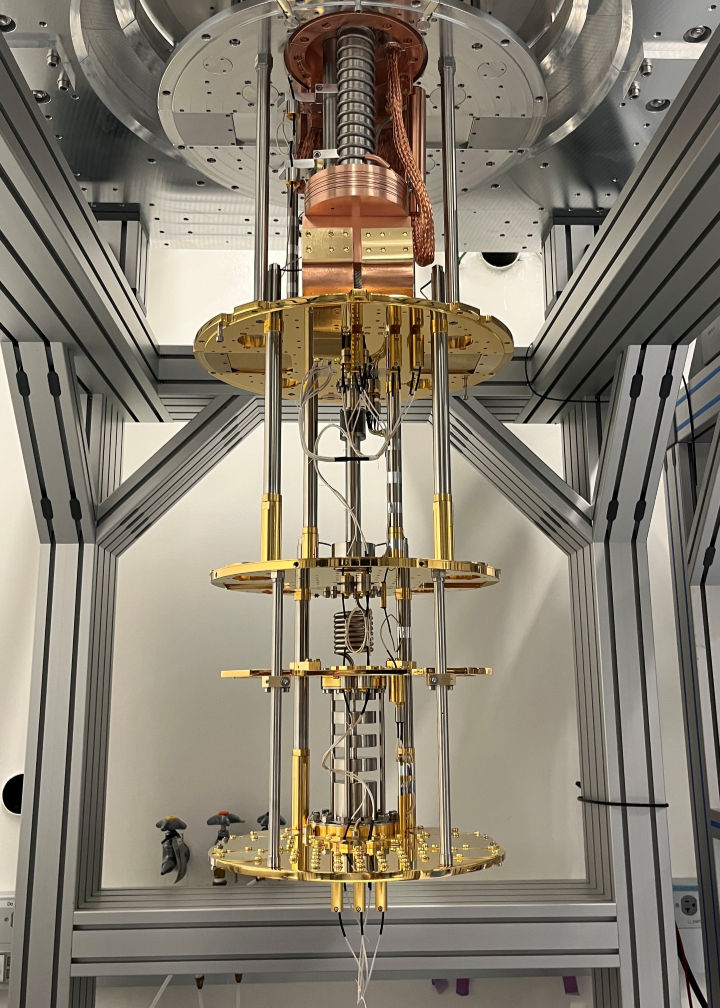
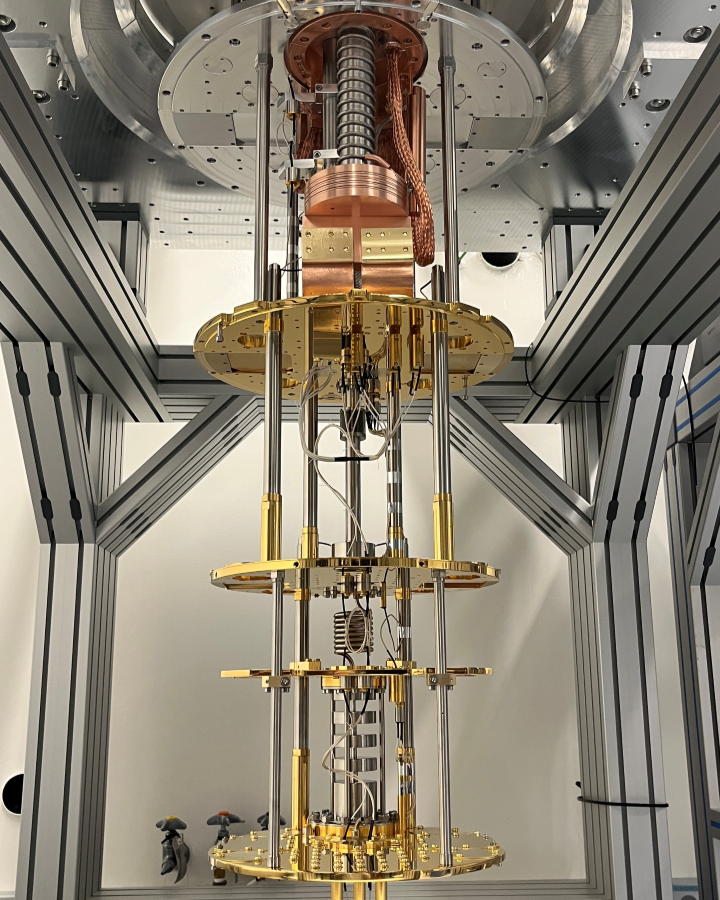
Started qfc page

diff --git a/_projects/QFC.md b/_projects/QFC.md
@@ -1,80 +1,10 @@
 ---
 layout: page
-title: Flip chip qubits project
+title: Flip chip qubits
 description: Measurements of superconducting qubits on galvanically separated flip-chip substrates.
-img: #assets/img/3.jpg
+img: assets/img/IMG_4585_SD.png
 importance: 2
 category: work
 ---
 
-Every project has a beautiful feature showcase page.
-It's easy to include images in a flexible 3-column grid format.
-Make your photos 1/3, 2/3, or full width.
-
-To give your project a background in the portfolio page, just add the img tag to the front matter like so:
-
-    ---
-    layout: page
-    title: project
-    description: a project with a background image
-    img: /assets/img/12.jpg
-    ---
-
-<div class="row">
-    <div class="col-sm mt-3 mt-md-0">
-        {% include figure.liquid loading="eager" path="assets/img/1.jpg" title="example image" class="img-fluid rounded z-depth-1" %}
-    </div>
-    <div class="col-sm mt-3 mt-md-0">
-        {% include figure.liquid loading="eager" path="assets/img/3.jpg" title="example image" class="img-fluid rounded z-depth-1" %}
-    </div>
-    <div class="col-sm mt-3 mt-md-0">
-        {% include figure.liquid loading="eager" path="assets/img/5.jpg" title="example image" class="img-fluid rounded z-depth-1" %}
-    </div>
-</div>
-<div class="caption">
-    Caption photos easily. On the left, a road goes through a tunnel. Middle, leaves artistically fall in a hipster photoshoot. Right, in another hipster photoshoot, a lumberjack grasps a handful of pine needles.
-</div>
-<div class="row">
-    <div class="col-sm mt-3 mt-md-0">
-        {% include figure.liquid loading="eager" path="assets/img/5.jpg" title="example image" class="img-fluid rounded z-depth-1" %}
-    </div>
-</div>
-<div class="caption">
-    This image can also have a caption. It's like magic.
-</div>
-
-You can also put regular text between your rows of images.
-Say you wanted to write a little bit about your project before you posted the rest of the images.
-You describe how you toiled, sweated, _bled_ for your project, and then... you reveal its glory in the next row of images.
-
-<div class="row justify-content-sm-center">
-    <div class="col-sm-8 mt-3 mt-md-0">
-        {% include figure.liquid path="assets/img/6.jpg" title="example image" class="img-fluid rounded z-depth-1" %}
-    </div>
-    <div class="col-sm-4 mt-3 mt-md-0">
-        {% include figure.liquid path="assets/img/11.jpg" title="example image" class="img-fluid rounded z-depth-1" %}
-    </div>
-</div>
-<div class="caption">
-    You can also have artistically styled 2/3 + 1/3 images, like these.
-</div>
-
-The code is simple.
-Just wrap your images with `<div class="col-sm">` and place them inside `<div class="row">` (read more about the <a href="https://getbootstrap.com/docs/4.4/layout/grid/">Bootstrap Grid</a> system).
-To make images responsive, add `img-fluid` class to each; for rounded corners and shadows use `rounded` and `z-depth-1` classes.
-Here's the code for the last row of images above:
-
-{% raw %}
-
-```html
-<div class="row justify-content-sm-center">
-  <div class="col-sm-8 mt-3 mt-md-0">
-    {% include figure.liquid path="assets/img/6.jpg" title="example image" class="img-fluid rounded z-depth-1" %}
-  </div>
-  <div class="col-sm-4 mt-3 mt-md-0">
-    {% include figure.liquid path="assets/img/11.jpg" title="example image" class="img-fluid rounded z-depth-1" %}
-  </div>
-</div>
-```
-
-{% endraw %}
+description of qfc project and paper citation.
